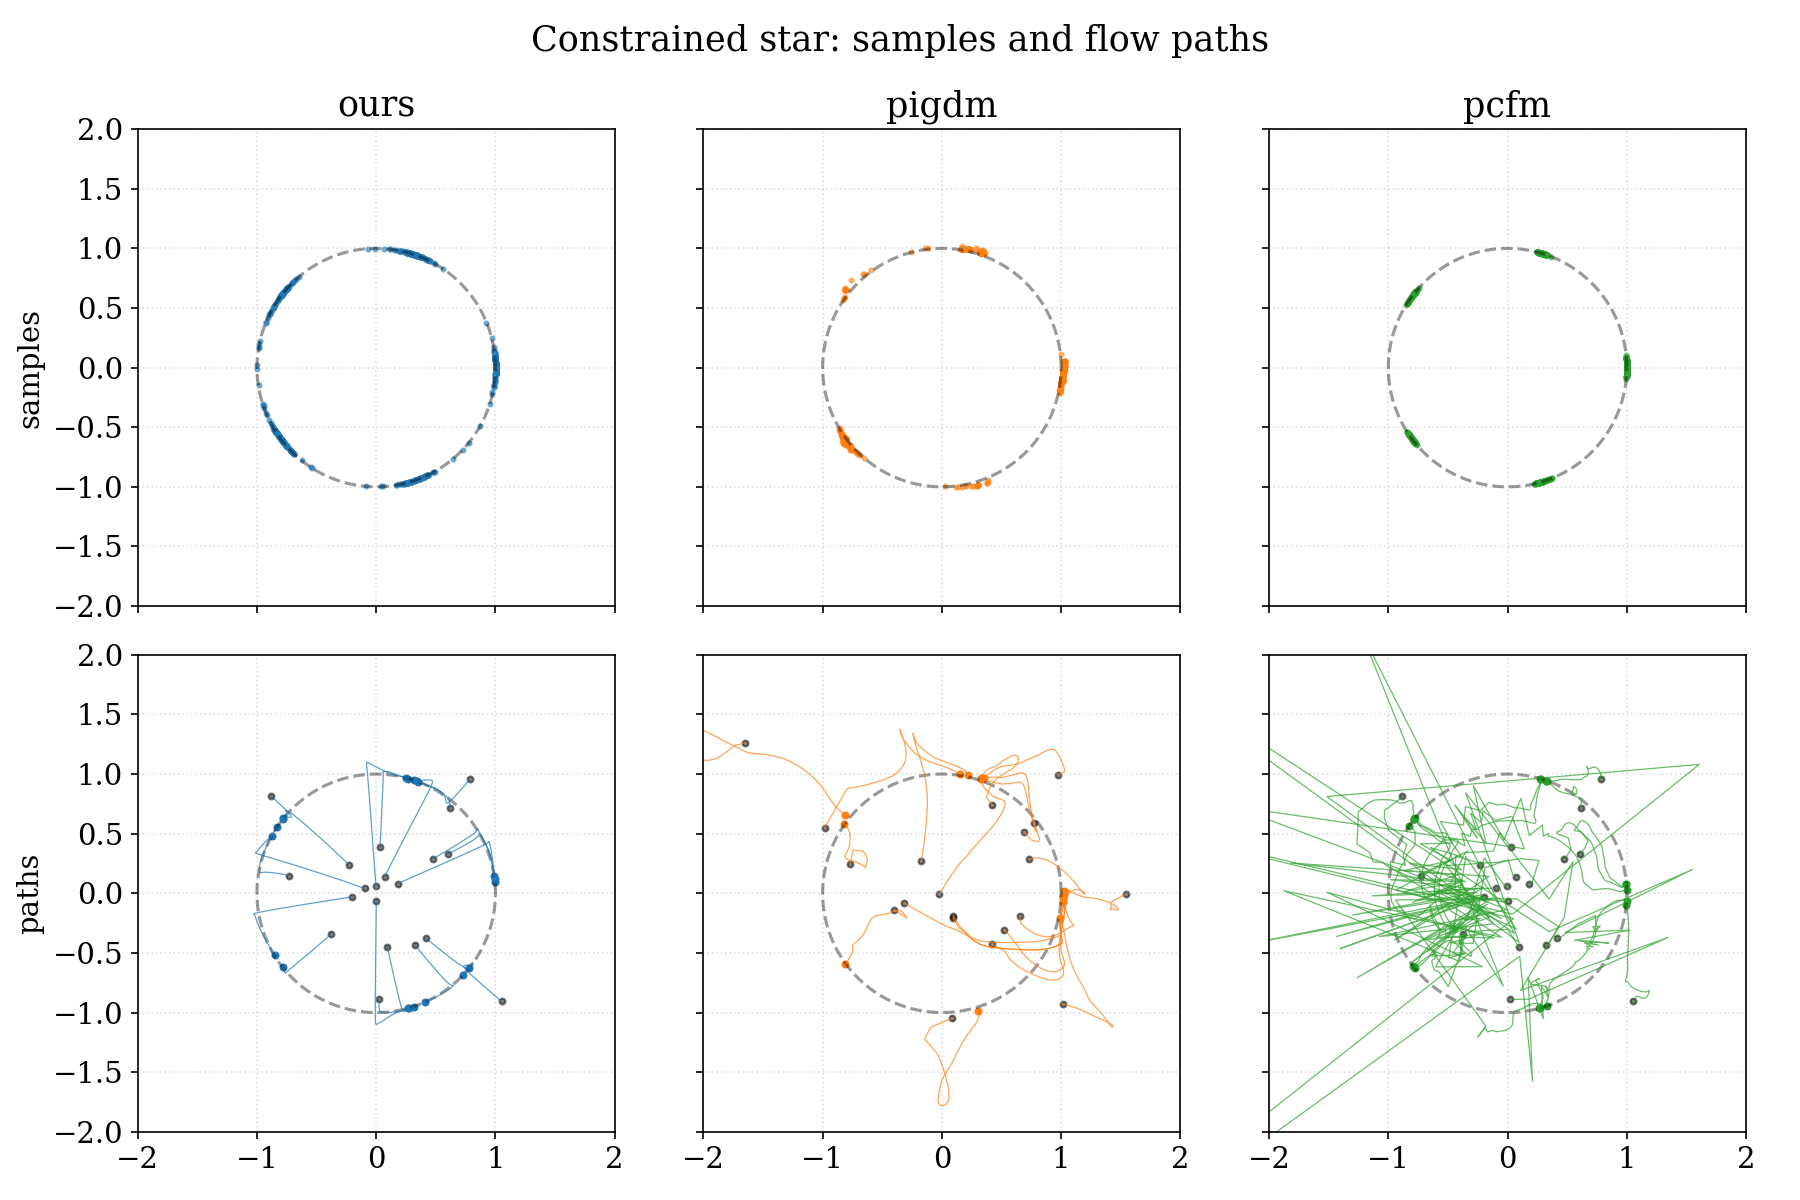
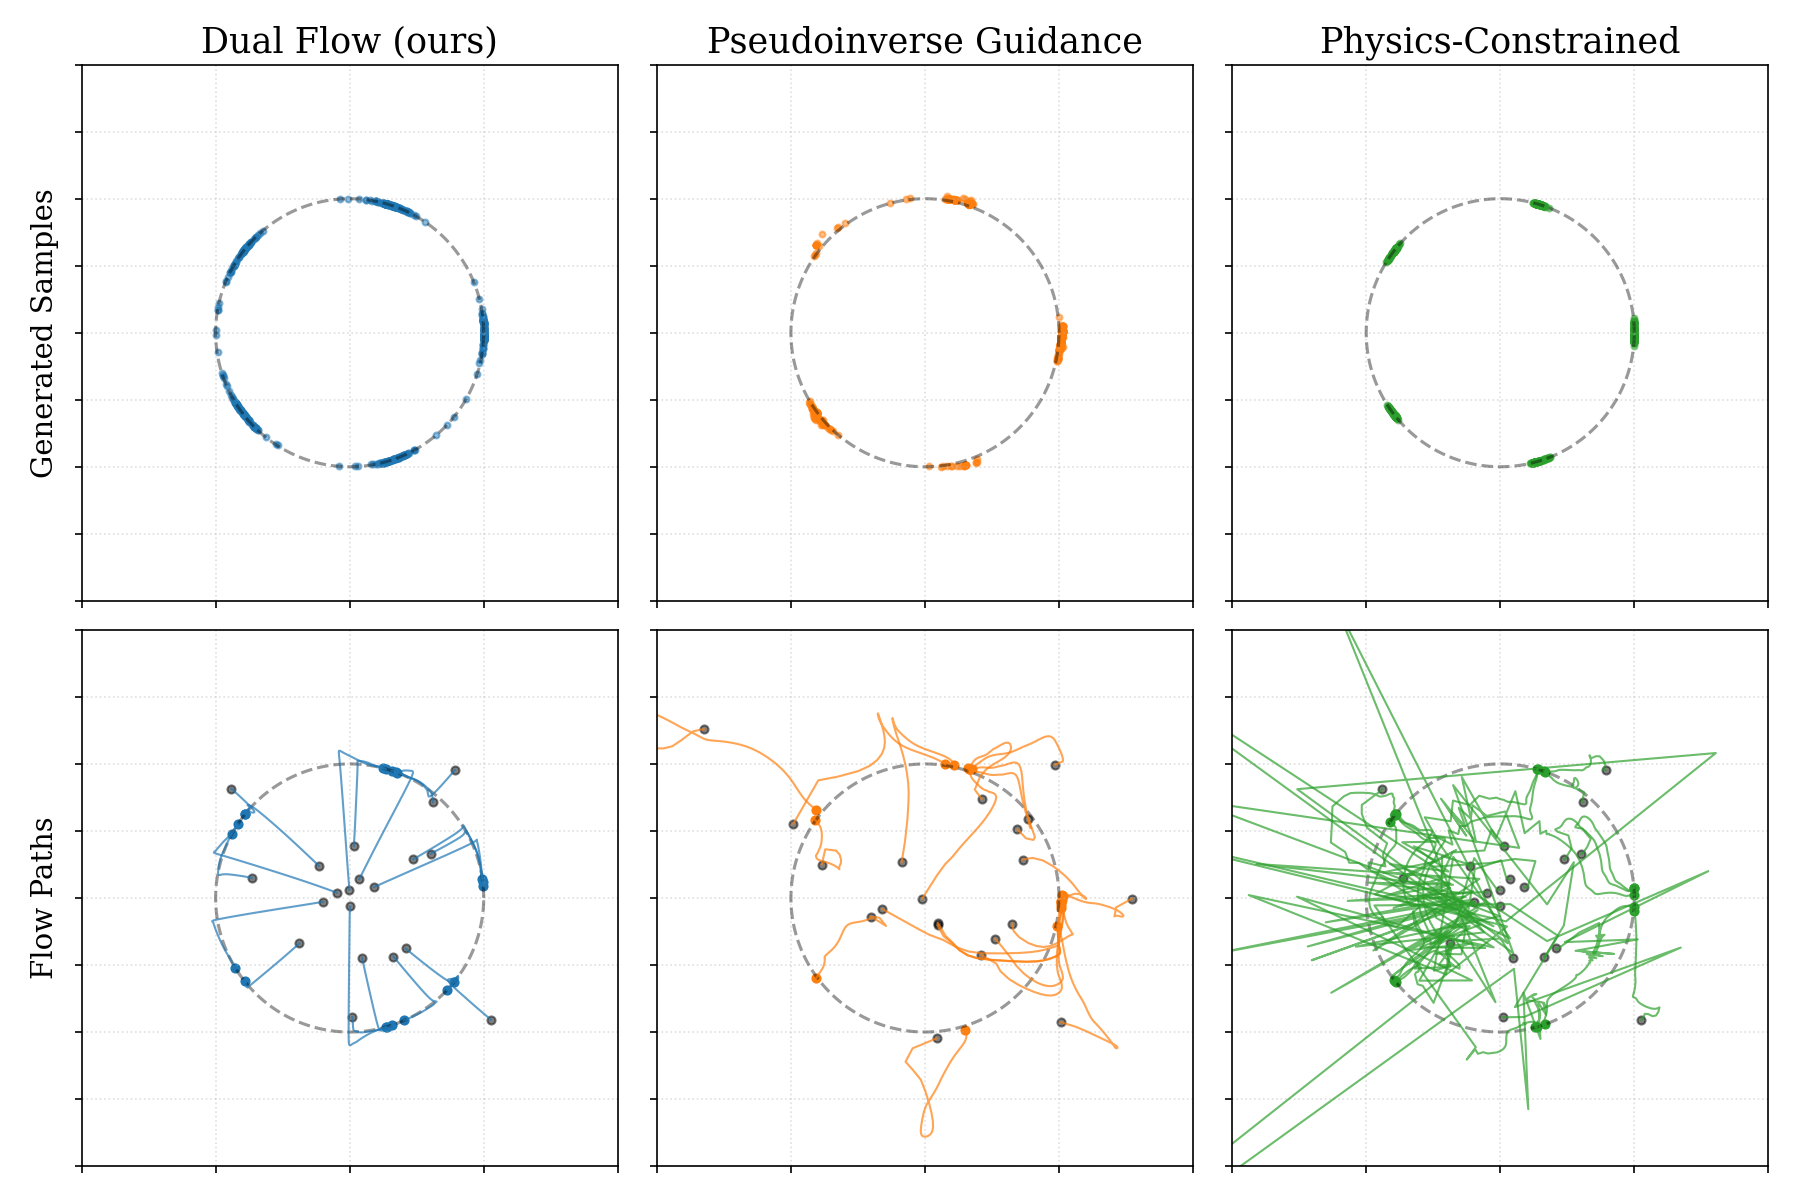
polish constrained star figure

diff --git a/plots.py b/plots.py
@@ -40,6 +40,11 @@ MODEL_DIR = Path("data")
 
 METHODS = ("ours", "pigdm", "pcfm")
 METHOD_COLORS = {"ours": "C0", "pigdm": "C1", "pcfm": "C2"}
+METHOD_NAMES = {
+    "ours": "Dual Flow (ours)",
+    "pigdm": "Pseudoinverse Guidance",
+    "pcfm": "Physics-Constrained",
+}
 
 # Set uniform font size and serif font style
 plt.rcParams.update({
@@ -361,31 +366,36 @@ def plot_constrained_star(
 
         ax = axes[0, col]
         ax.plot(np.cos(theta), np.sin(theta), "k--", alpha=0.4)
-        ax.scatter(x[:, 0], x[:, 1], s=4, alpha=0.5,
+        ax.scatter(x[:, 0], x[:, 1], alpha=0.5, s=8,
                    color=METHOD_COLORS[method])
         ax.set_xlim(-2, 2)
         ax.set_ylim(-2, 2)
         ax.set_aspect("equal")
-        ax.set_title(method)
+        ax.set_title(METHOD_NAMES[method])
         ax.grid(linestyle=":", alpha=0.4)
 
         ax = axes[1, col]
         ax.plot(np.cos(theta), np.sin(theta), "k--", alpha=0.4)
         n_show = min(num_paths, x.shape[0])
         for i in range(n_show):
-            ax.plot(xs[:, i, 0], xs[:, i, 1], lw=0.6, alpha=0.7,
+            ax.plot(xs[:, i, 0], xs[:, i, 1], lw=1.0, alpha=0.7,
                     color=METHOD_COLORS[method])
         ax.scatter(xs[0, :n_show, 0], xs[0, :n_show, 1],
-                   s=8, color="k", alpha=0.5, label="start")
+                   s=15, color="k", alpha=0.5, label="start")
         ax.scatter(xs[-1, :n_show, 0], xs[-1, :n_show, 1],
-                   s=8, color=METHOD_COLORS[method], label="end")
+                   s=15, color=METHOD_COLORS[method], label="end")
         ax.set_xlim(-2, 2)
         ax.set_ylim(-2, 2)
+
+        # Leave grid lines, but remove ticks and labels for the trajectory subplots.
+        ax.set_xticklabels([])
+        ax.set_yticklabels([])
+
+
         ax.set_aspect("equal")
         ax.grid(linestyle=":", alpha=0.4)
-    axes[0, 0].set_ylabel("samples")
-    axes[1, 0].set_ylabel("paths")
-    fig.suptitle("Constrained star: samples and flow paths")
+    axes[0, 0].set_ylabel("Generated Samples")
+    axes[1, 0].set_ylabel("Flow Paths")
     fig.tight_layout()
     out = FIG_DIR / "constrained_star.png"
     fig.savefig(out, dpi=150)